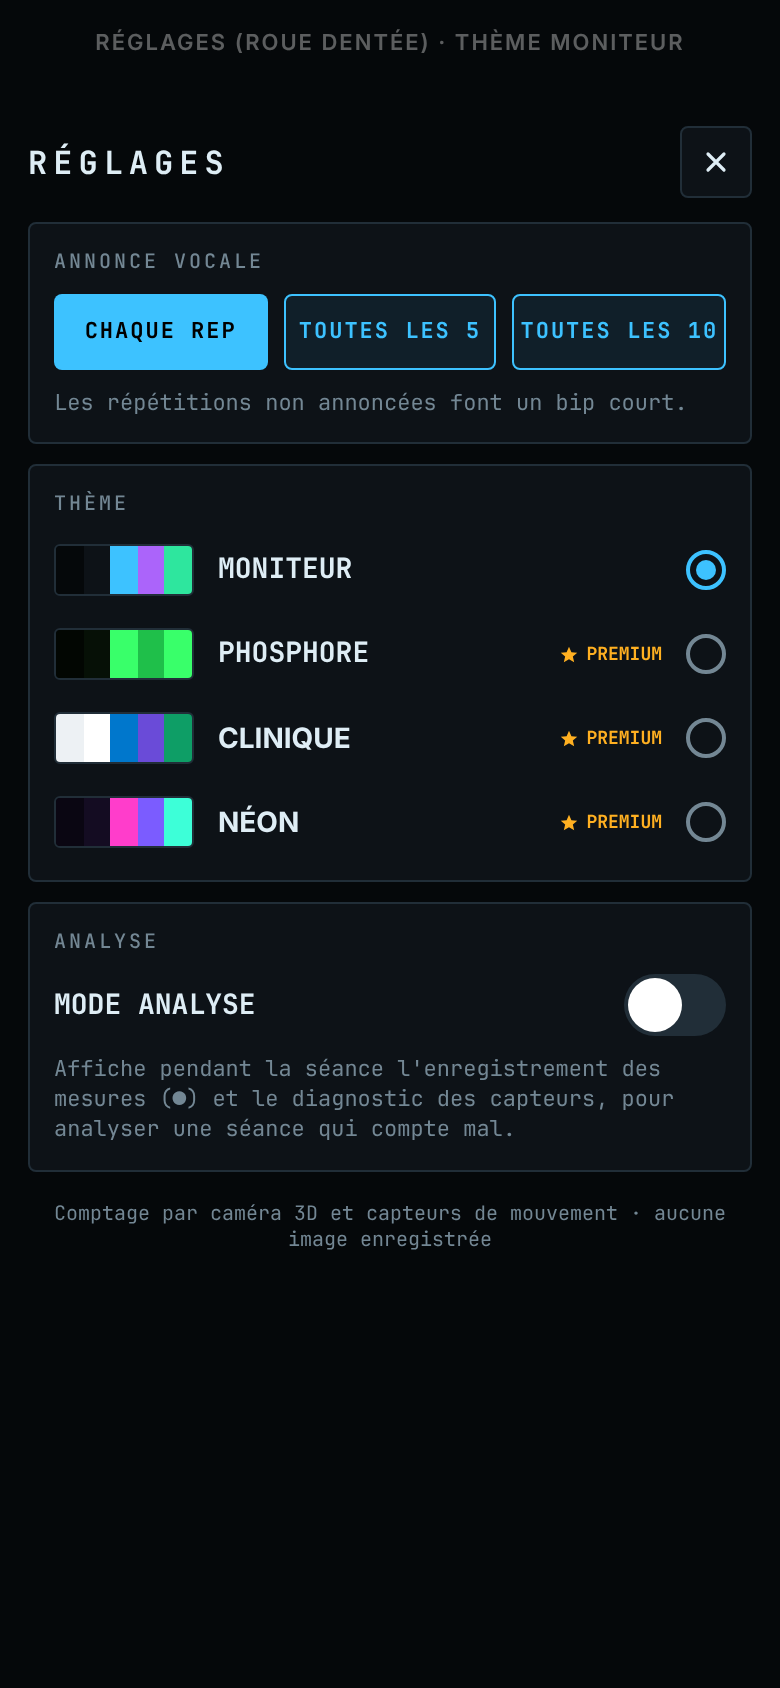
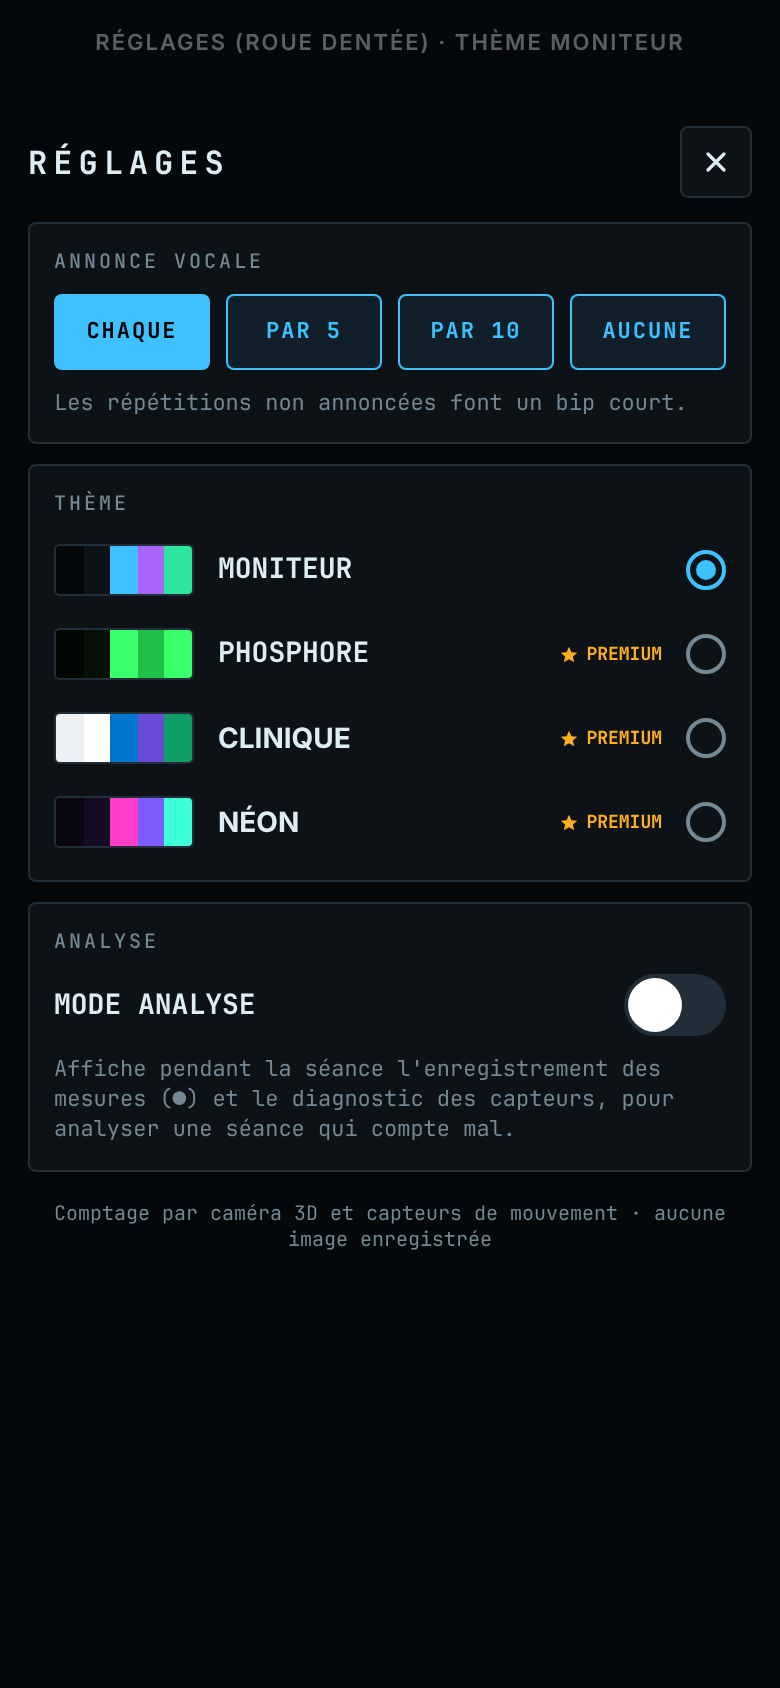
Annonce vocale : choix « Aucune » pour couper complètement la voix
Plus aucune parole ; chaque répétition et les 3 dernières secondes du compte
à rebours font un bip. Libellés raccourcis (Chaque, Par 5, Par 10, Aucune).

Claude-Session: https://claude.ai/code/session_01FagVhaB5BD4mhMTzHfe9fj

Changed region(s): [[0.2462, 0.154, 0.9231, 0.2156], [0.1231, 0.1848, 0.2154, 0.2156]]

diff --git a/RepCounter/WorkoutModel.swift b/RepCounter/WorkoutModel.swift
@@ -3,7 +3,10 @@ import AVFoundation
 
 /// Retour sonore : on ne voit pas l'écran pendant des pompes ou avec le téléphone sur la poitrine.
 /// Voix pour les nombres annoncés, bip court pour les autres répétitions.
+/// Voix coupée : plus aucune parole, les bips restent.
 final class Announcer {
+    var voiceEnabled = true
+
     private let synthesizer = AVSpeechSynthesizer()
     private let voice = AVSpeechSynthesisVoice(language: "fr-FR")
     private let engine = AVAudioEngine()
@@ -23,6 +26,7 @@ final class Announcer {
     }
 
     func say(_ text: String) {
+        guard voiceEnabled else { return }
         synthesizer.stopSpeaking(at: .immediate)
         let utterance = AVSpeechUtterance(string: text)
         utterance.voice = voice
@@ -136,10 +140,12 @@ final class WorkoutModel: ObservableObject {
     @Published var showsDiagnostics = false
     @Published private(set) var framesPerSecond: Double = 0
     @Published private(set) var diagnostics: [SourceDiagnostic] = []
-    /// Annonce vocale toutes les N répétitions (1, 5 ou 10) ; bip pour les autres. Réglé dans les Réglages.
+    /// Annonce vocale toutes les N répétitions (1, 5 ou 10) ; bip pour les autres.
+    /// 0 : voix coupée. Réglé dans les Réglages.
     private let announceEvery: Int
     static let announceEveryKey = "announceEvery"
-    static let announceChoices = [1, 5, 10]
+    static let announceChoices = [1, 5, 10, 0]
+    static let defaultAnnounceEvery = 1
     /// Enregistrement des mesures, pour analyser une séance qui compte mal.
     @Published private(set) var isRecording = false
     @Published private(set) var recordingDuration: TimeInterval = 0
@@ -183,8 +189,9 @@ final class WorkoutModel: ObservableObject {
         self.exercise = exercise
         sensors = SensorHub(sources: Set(exercise.sources))
         counter = AutoCounter(exercise: exercise)
-        let saved = UserDefaults.standard.integer(forKey: Self.announceEveryKey)
-        announceEvery = Self.announceChoices.contains(saved) ? saved : 1
+        let saved = UserDefaults.standard.object(forKey: Self.announceEveryKey) as? Int
+        announceEvery = saved.flatMap { Self.announceChoices.contains($0) ? $0 : nil } ?? Self.defaultAnnounceEvery
+        announcer.voiceEnabled = announceEvery > 0
         sensors.onFrame = { [weak self] frame in self?.handle(frame) }
     }
 
@@ -242,7 +249,10 @@ final class WorkoutModel: ObservableObject {
             remaining -= 1
             if remaining > 0 {
                 self.phase = .countdown(remaining)
-                if remaining <= 3 { self.announcer.say("\(remaining)") }
+                if remaining <= 3 {
+                    // Voix coupée : un bip par seconde pour savoir quand ça démarre
+                    if self.announcer.voiceEnabled { self.announcer.say("\(remaining)") } else { self.announcer.playTick() }
+                }
             } else {
                 timer.invalidate()
                 self.startCounting()
@@ -454,7 +464,7 @@ final class WorkoutModel: ObservableObject {
             repPulse += 1
             haptic.impactOccurred()
             // Le premier nombre d'une série est toujours dit : il signale que le comptage a démarré
-            if started || reps % announceEvery == 0 {
+            if announceEvery > 0, started || reps % announceEvery == 0 {
                 announcer.say("\(reps)")
             } else {
                 announcer.playTick()

diff --git a/RepCounter/SettingsView.swift b/RepCounter/SettingsView.swift
@@ -8,7 +8,7 @@ struct SettingsView: View {
     @Environment(\.theme) private var theme
     @Environment(\.dismiss) private var dismiss
     @EnvironmentObject private var themeStore: ThemeStore
-    @AppStorage(WorkoutModel.announceEveryKey) private var announceEvery = 1
+    @AppStorage(WorkoutModel.announceEveryKey) private var announceEvery = WorkoutModel.defaultAnnounceEvery
     @AppStorage(SettingsView.analysisModeKey) private var analysisMode = false
 
     var body: some View {
@@ -30,13 +30,15 @@ struct SettingsView: View {
                         VStack(alignment: .leading, spacing: 8) {
                             HStack(spacing: 8) {
                                 ForEach(WorkoutModel.announceChoices, id: \.self) { every in
-                                    Button(every == 1 ? "Chaque rep" : "Toutes les \(every)") {
+                                    Button(Self.announceLabel(every)) {
                                         announceEvery = every
                                     }
                                     .buttonStyle(MonitorButtonStyle(filled: announceEvery == every, height: 38, fontSize: 11))
                                 }
                             }
-                            note("Les répétitions non annoncées font un bip court.")
+                            note(announceEvery == 0
+                                 ? "Aucune parole : chaque répétition fait un bip court."
+                                 : "Les répétitions non annoncées font un bip court.")
                         }
                     }
 
@@ -75,6 +77,14 @@ struct SettingsView: View {
         }
         .background(theme.background.ignoresSafeArea())
         .presentationDetents([.large])
+    }
+
+    private static func announceLabel(_ every: Int) -> String {
+        switch every {
+        case 0: return "Aucune"
+        case 1: return "Chaque"
+        default: return "Par \(every)"
+        }
     }
 
     private func note(_ text: String) -> some View {

diff --git a/Design/mockups/screens.html b/Design/mockups/screens.html
@@ -132,9 +132,10 @@ function render(t, screen) {
         <span style="width:20px;height:20px;border-radius:50%;border:2px solid ${selected ? c.primary : c.dim};display:flex;align-items:center;justify-content:center">
           ${selected ? `<span style="width:10px;height:10px;border-radius:50%;background:${c.primary}"></span>` : ""}</span></div>`;
     }).join("");
-    const announce = `<div class="row">${[["Chaque rep", true], ["Toutes les 5", false], ["Toutes les 10", false]]
-      .map(([text, on]) => btn(text, c.primary, on, 38, 11)).join("")}</div>
-      <div style="font-size:11px;color:${c.dim}">Les répétitions non annoncées font un bip court.</div>`;
+    const mute = s.announce === 0;
+    const announce = `<div class="row">${[["Chaque", 1], ["Par 5", 5], ["Par 10", 10], ["Aucune", 0]]
+      .map(([text, n]) => btn(text, c.primary, n === (s.announce ?? 1), 38, 11)).join("")}</div>
+      <div style="font-size:11px;color:${c.dim}">${mute ? "Aucune parole : chaque répétition fait un bip court." : "Les répétitions non annoncées font un bip court."}</div>`;
     const toggle = `<div class="row" style="justify-content:space-between">
         <span style="font-size:14px;font-weight:700">MODE ANALYSE</span>
         <span style="width:51px;height:31px;border-radius:16px;background:${s.analysis ? c.primary : c.line};position:relative">

diff --git a/Design/mockups/render.js b/Design/mockups/render.js
@@ -12,6 +12,7 @@ fs.mkdirSync(out, { recursive: true });
 const SCREENS = [
   ["01-accueil", { kind: "home", caption: "Accueil" }],
   ["01b-reglages", { kind: "settings", themes, caption: "Réglages (roue dentée)" }],
+  ["01c-reglages-voix-coupee", { kind: "settings", themes, announce: 0, caption: "Réglages, voix coupée" }],
   ["02-veille", { phase: "ready", signal: "ok", phase01: 0.3, caption: "Veille" }],
   ["03-compte-a-rebours", { phase: "countdown", signal: "weak", phase01: 0, caption: "Compte à rebours" }],
   ["04-detection-2-sur-3", { phase: "acquiring", signal: "ok", phase01: 0.55, tentative: 2, total: 0, sets: [], caption: "Détection, pas encore validé" }],
@@ -30,8 +31,8 @@ const SCREENS = [
   const shots = [];
   for (const [name, screen] of SCREENS) shots.push([`monitor-${name}`, byId.monitor, screen]);
   for (const id of ["phosphor", "clinic", "neon"]) {
-    shots.push([`${id}-05-comptage`, byId[id], SCREENS[5][1]]);
-    shots.push([`${id}-04-detection`, byId[id], SCREENS[4][1]]);
+    shots.push([`${id}-05-comptage`, byId[id], SCREENS.find(x => x[0] === "05-comptage")[1]]);
+    shots.push([`${id}-04-detection`, byId[id], SCREENS.find(x => x[0] === "04-detection-2-sur-3")[1]]);
     shots.push([`${id}-01b-reglages`, byId[id], SCREENS[1][1]]);
   }
   for (const [name, theme, screen] of shots) {

diff --git a/README.md b/README.md
@@ -89,7 +89,9 @@ les comptes (réel, app, compteur Python) et trace le signal de chaque capteur.
 
 ## Retour sonore
 Les Réglages choisissent la fréquence des annonces vocales : **chaque rep**,
-**toutes les 5** ou **toutes les 10**. Les répétitions non annoncées font un bip court.
+**toutes les 5**, **toutes les 10** ou **aucune**. Les répétitions non annoncées font un bip court.
+Avec « aucune », l'app ne parle plus du tout : chaque répétition fait un bip, le compte à
+rebours aussi (3 bips), et les fins de série et la récupération ne sont plus annoncées.
 Le premier nombre d'une série est toujours dit (le comptage a démarré) ; la fin de série
 est annoncée avec son nombre de répétitions, puis la récupération toutes les 30 s. Le son fonctionne en mode silencieux et se mélange
 à la musique. Le réglage est mémorisé.
